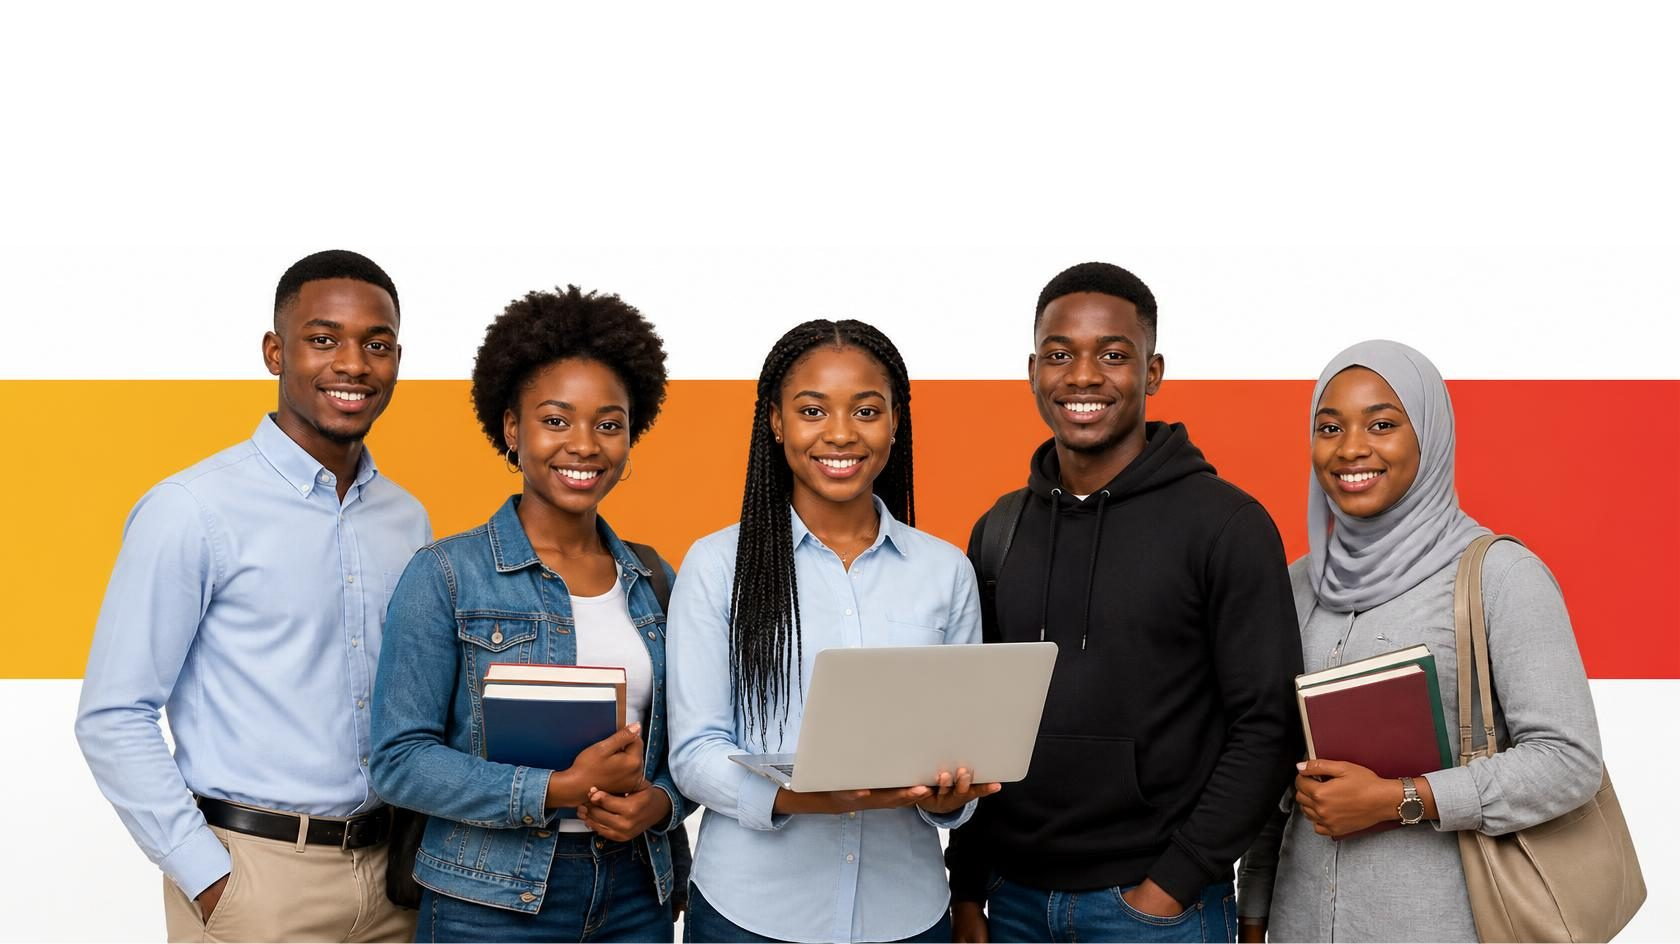
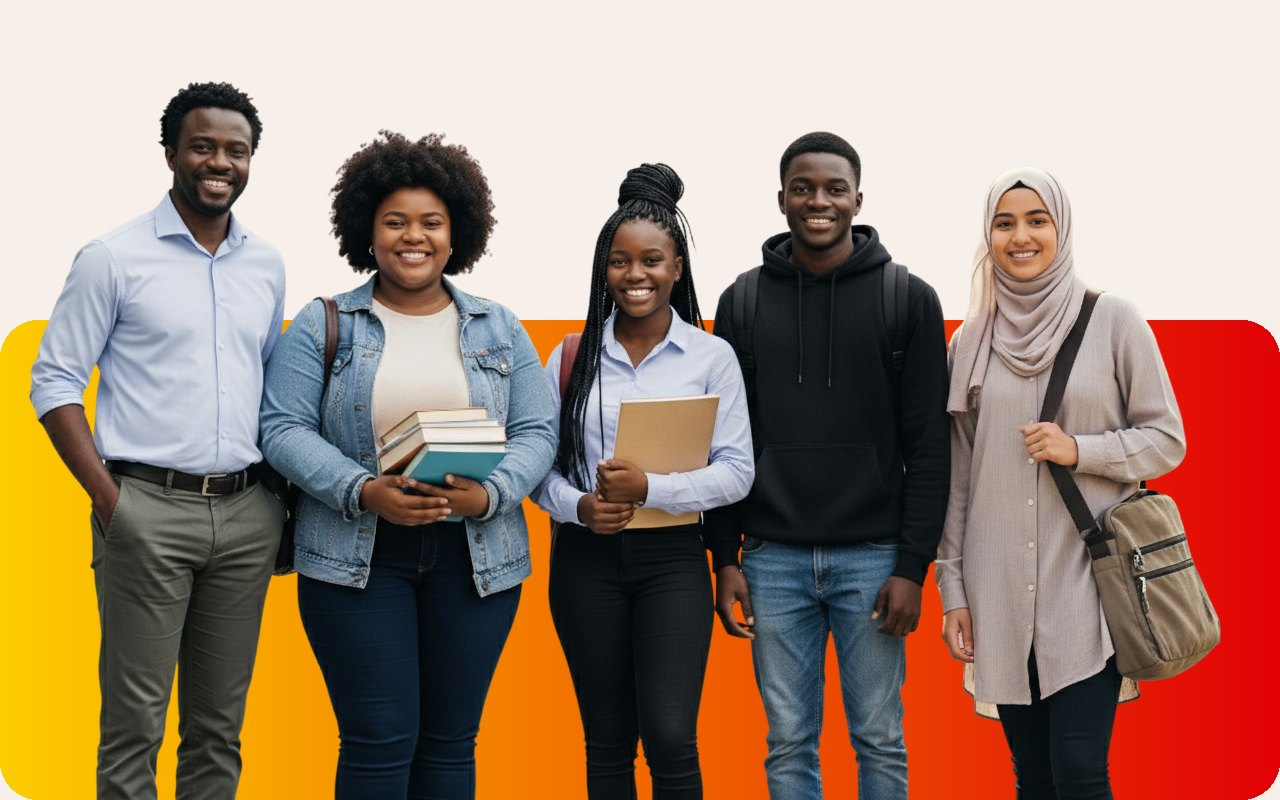
visuel d'accueil : les cinq talents sur le bandeau dégradé

diff --git a/index.html b/index.html
@@ -138,7 +138,7 @@ footer img{height:36px;width:auto;margin-bottom:18px}
 @media (max-width:640px){.soutien .carte{padding:16px 18px}}
 .soutien img{width:min(880px,100%);height:auto}
 .photo{padding-block:36px 0}
-.photo .cadre{position:relative;border-radius:var(--radius-2xl);overflow:hidden;background:#fff;box-shadow:var(--shadow-md)}
+.photo .cadre{position:relative}
 .photo img{width:100%;height:auto;display:block}
 .video{padding-block:64px}
 .video .cadre{position:relative;aspect-ratio:16/9;border-radius:var(--radius-xl);overflow:hidden;background:var(--dc-ink);box-shadow:var(--shadow-md)}
@@ -210,7 +210,7 @@ footer img{height:36px;width:auto;margin-bottom:18px}
   <div class="ctas"><a class="btn primary" href="offres.html"><svg class="ico " aria-hidden="true" focusable="false" xmlns="http://www.w3.org/2000/svg" width="18" height="18" viewBox="0 0 24 24" fill="none" stroke="currentColor" stroke-width="2" stroke-linecap="round" stroke-linejoin="round" > <path d="M16 20V4a2 2 0 0 0-2-2h-4a2 2 0 0 0-2 2v16" /> <rect width="20" height="14" x="2" y="6" rx="2" /> </svg> Voir les 37 offres</a><a class="btn" href="candidature.html">Je postule <svg class="ico " aria-hidden="true" focusable="false" xmlns="http://www.w3.org/2000/svg" width="18" height="18" viewBox="0 0 24 24" fill="none" stroke="currentColor" stroke-width="2" stroke-linecap="round" stroke-linejoin="round" > <path d="M5 12h14" /> <path d="m12 5 7 7-7 7" /> </svg></a></div>
 </section>
 <div class="wrap soutien"><div class="carte"><img src="assets/marque/soutien.png" alt="Diaspora Connect, avec le soutien de la France, de l'Ambassade de France en Côte d'Ivoire et de la Fondation Mstudio"></div></div>
-<div class="wrap photo"><div class="cadre"><img src="assets/marque/hero-talents.jpg" alt="Cinq talents de la diaspora, souriants, prêts pour leur mission" width="1800" height="1000"></div></div>
+<div class="wrap photo"><div class="cadre"><img src="assets/marque/hero-talents.jpg" alt="Cinq talents de la diaspora, souriants, prêts pour leur mission" width="1280" height="800"></div></div>
 <section class="wrap video" style="padding-block:56px 0">
   <p class="eyebrow">En vidéo</p>
   <h2 style="margin:10px 0 22px;max-width:18ch">Diaspora Connect, raconté par celles et ceux qui le vivent</h2>
